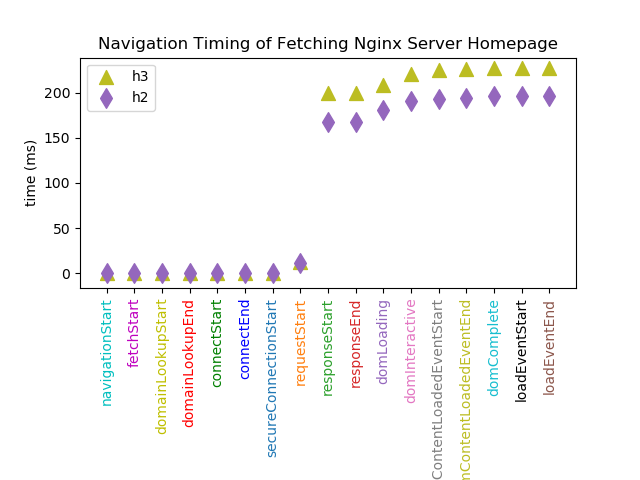
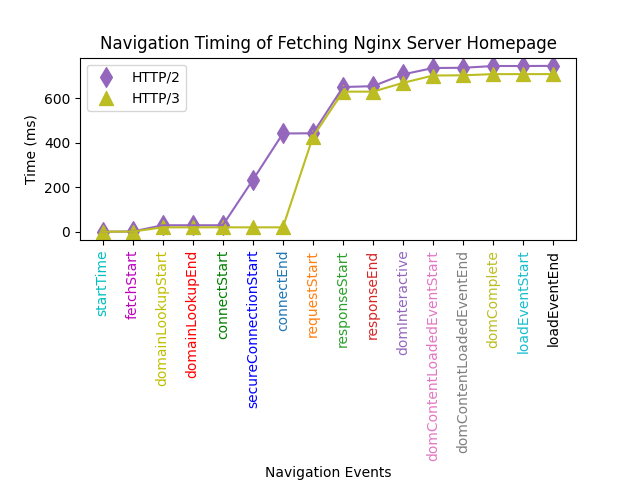
Converted spaghet to python, changed visualization to use median instead of mean

diff --git a/spaghet.py b/spaghet.py
@@ -1,0 +1,147 @@
+import subprocess, csv, json
+from playwright import sync_playwright
+
+# generated command line code
+call = "sudo tc qdisc add dev lo root netem delay 100ms 10ms 25%"
+reset = "sudo tc qdisc del dev lo root"
+
+networkInterface = "lo"
+
+timingParameters = [ "startTime",
+# "unloadEventStart",
+# "unloadEventEnd",
+"fetchStart",
+"domainLookupStart",
+"domainLookupEnd",
+"connectStart", 
+"secureConnectionStart",
+"connectEnd", 
+"requestStart", 
+"responseStart", 
+ "responseEnd",
+ "domInteractive",  
+ "domContentLoadedEventStart", 
+ "domContentLoadedEventEnd", 
+ "domComplete", 
+ "loadEventStart",
+ "loadEventEnd"
+]
+
+def main():   
+    # Make sure server is running
+    subprocess.run("sudo systemctl restart nginx.service".split())
+    csvFile = "out.csv"
+    # Setup data file headers
+    with open(csvFile, 'w', newline='\n') as outFile:
+        csvWriter = csv.writer(outFile)
+        csvWriter.writerow(timingParameters)
+
+    # run the same experiment 10 times over h3
+    with sync_playwright() as p:
+        print("HTTP/3:")
+        for i in range(10):
+            runExperiment(call,reset, p, "firefox", csvFile, True)
+        print("HTTP/2")
+        # run the same experiment 10 times over h2
+        for i in range(10):
+            runExperiment(call,reset, p, "firefox", csvFile, False) 
+
+def writeData(data, csvFile):
+    with open(csvFile, 'a+', newline='\n') as outFile:
+        csvWriter = csv.DictWriter(outFile, fieldnames=timingParameters, extrasaction='ignore')
+        csvWriter.writerow(data)
+
+def launchBrowser (pwInstance, browerType, csvFile, url, h3):
+    if browerType  ==  "firefox":
+        launchFirefox(pwInstance, csvFile, url, h3)
+    elif browerType  ==  "chromium":
+        launchChromium(pwInstance, csvFile, url, h3)
+    elif browerType  ==  "edge":
+        launchEdge(pwInstance, csvFile, url, h3)
+
+def launchFirefox(pwInstance, csvFile, url, h3):
+    firefoxPrefs = {}
+    if (h3):
+        firefoxPrefs = {
+            "network.http.http3.enabled":True,
+            "network.http.http3.alt-svc-mapping-for-testing":"localhost;h3-29=:443",
+            "privacy.reduceTimerPrecision":False
+        }
+    browser = pwInstance.firefox.launch(
+        headless=True,
+        firefoxUserPrefs=firefoxPrefs,
+    )
+
+    context = browser.newContext()
+    page = context.newPage()
+    response = page.goto(url)
+    print("Firefox: ",response.headers['version'])
+    # getting performance timing data
+    # if we don't stringify and parse, things break
+    timingFunction = '''JSON.stringify(window.performance.getEntriesByType("navigation")[0])'''
+    performanceTiming = json.loads(page.evaluate(timingFunction))
+
+    writeData(performanceTiming, csvFile)
+    browser.close()
+
+def launchChromium(pwInstance, csvFile, url, h3):
+    chromiumArgs = []
+    if (h3):
+        chromiumArgs = ["--enable-quic", "--origin-to-force-quic-on=localhost:443", "--quic-version=h3-29"]
+
+    browser =  pwInstance.chromium.launch(
+        headless=True,
+        args=chromiumArgs,
+    )
+    context = browser.newContext()
+    context = browser.newContext()
+    page = context.newPage()
+    response = page.goto(url)
+    print("Chromium: ",response.headers()['version'])
+    # getting performance timing data
+    # if we don't stringify and parse, things break
+    timingFunction = '''JSON.stringify(window.performance.getEntriesByType("navigation")[0])'''
+    performanceTiming = json.loads(page.evaluate(timingFunction))
+    
+    writeData(performanceTiming, csvFile)
+    browser.close()
+
+def launchEdge(pwInstance, csvFile, url, h3):
+    edgeArgs = []
+    if (h3) :
+        edgeArgs = ["--enable-quic", "--origin-to-force-quic-on=localhost:443", "--quic-version=h3-29"]
+    browser = pwInstance.chromium.launch(
+        headless=True,
+        executablePath='/opt/microsoft/msedge-dev/msedge',
+        args=edgeArgs,
+    )
+    context = browser.newContext()
+    page = context.newPage()
+    response = page.goto(url)
+    print("Edge: ",response.headers()['version'])
+    # getting performance timing data
+    # if we don't stringify and parse, things break
+    timingFunction = '''JSON.stringify(window.performance.getEntriesByType("navigation")[0])'''
+    performanceTiming = json.loads(page.evaluate(timingFunction))
+    
+    writeData(performanceTiming, csvFile)
+    browser.close()
+    
+def runExperiment(call, reset, pwInstance, browserType, csvFile, h3):
+    url = "https://localhost"
+
+    runTcCommand(call)
+    launchBrowser(pwInstance, browserType, csvFile, url, h3)
+    runTcCommand(reset)
+
+
+def runTcCommand(command : str):
+    result = subprocess.run(command.split())
+    if result.returncode > 0:
+        print("Issue running TC!")
+        print(result.args)
+        print(result.stderr)
+        print("--------------------------")
+
+if __name__ == "__main__":
+    main()

diff --git a/visualization.py b/visualization.py
@@ -10,9 +10,9 @@ h3_data = original_data[1:11,:]
 # the last 10 rows corresponds to 10 connections over h2
 h2_data = original_data[11:, :]
 
-# get the average of each column
-normalized_h3 = np.mean(h3_data, axis = 0)
-normalized_h2 = np.mean(h2_data, axis = 0)
+# get the median of each column
+normalized_h3 = np.median(h3_data, axis = 0)
+normalized_h2 = np.median(h2_data, axis = 0)
 
 timingParameters = [#"navigationStart",
 # "unloadEventStart",
